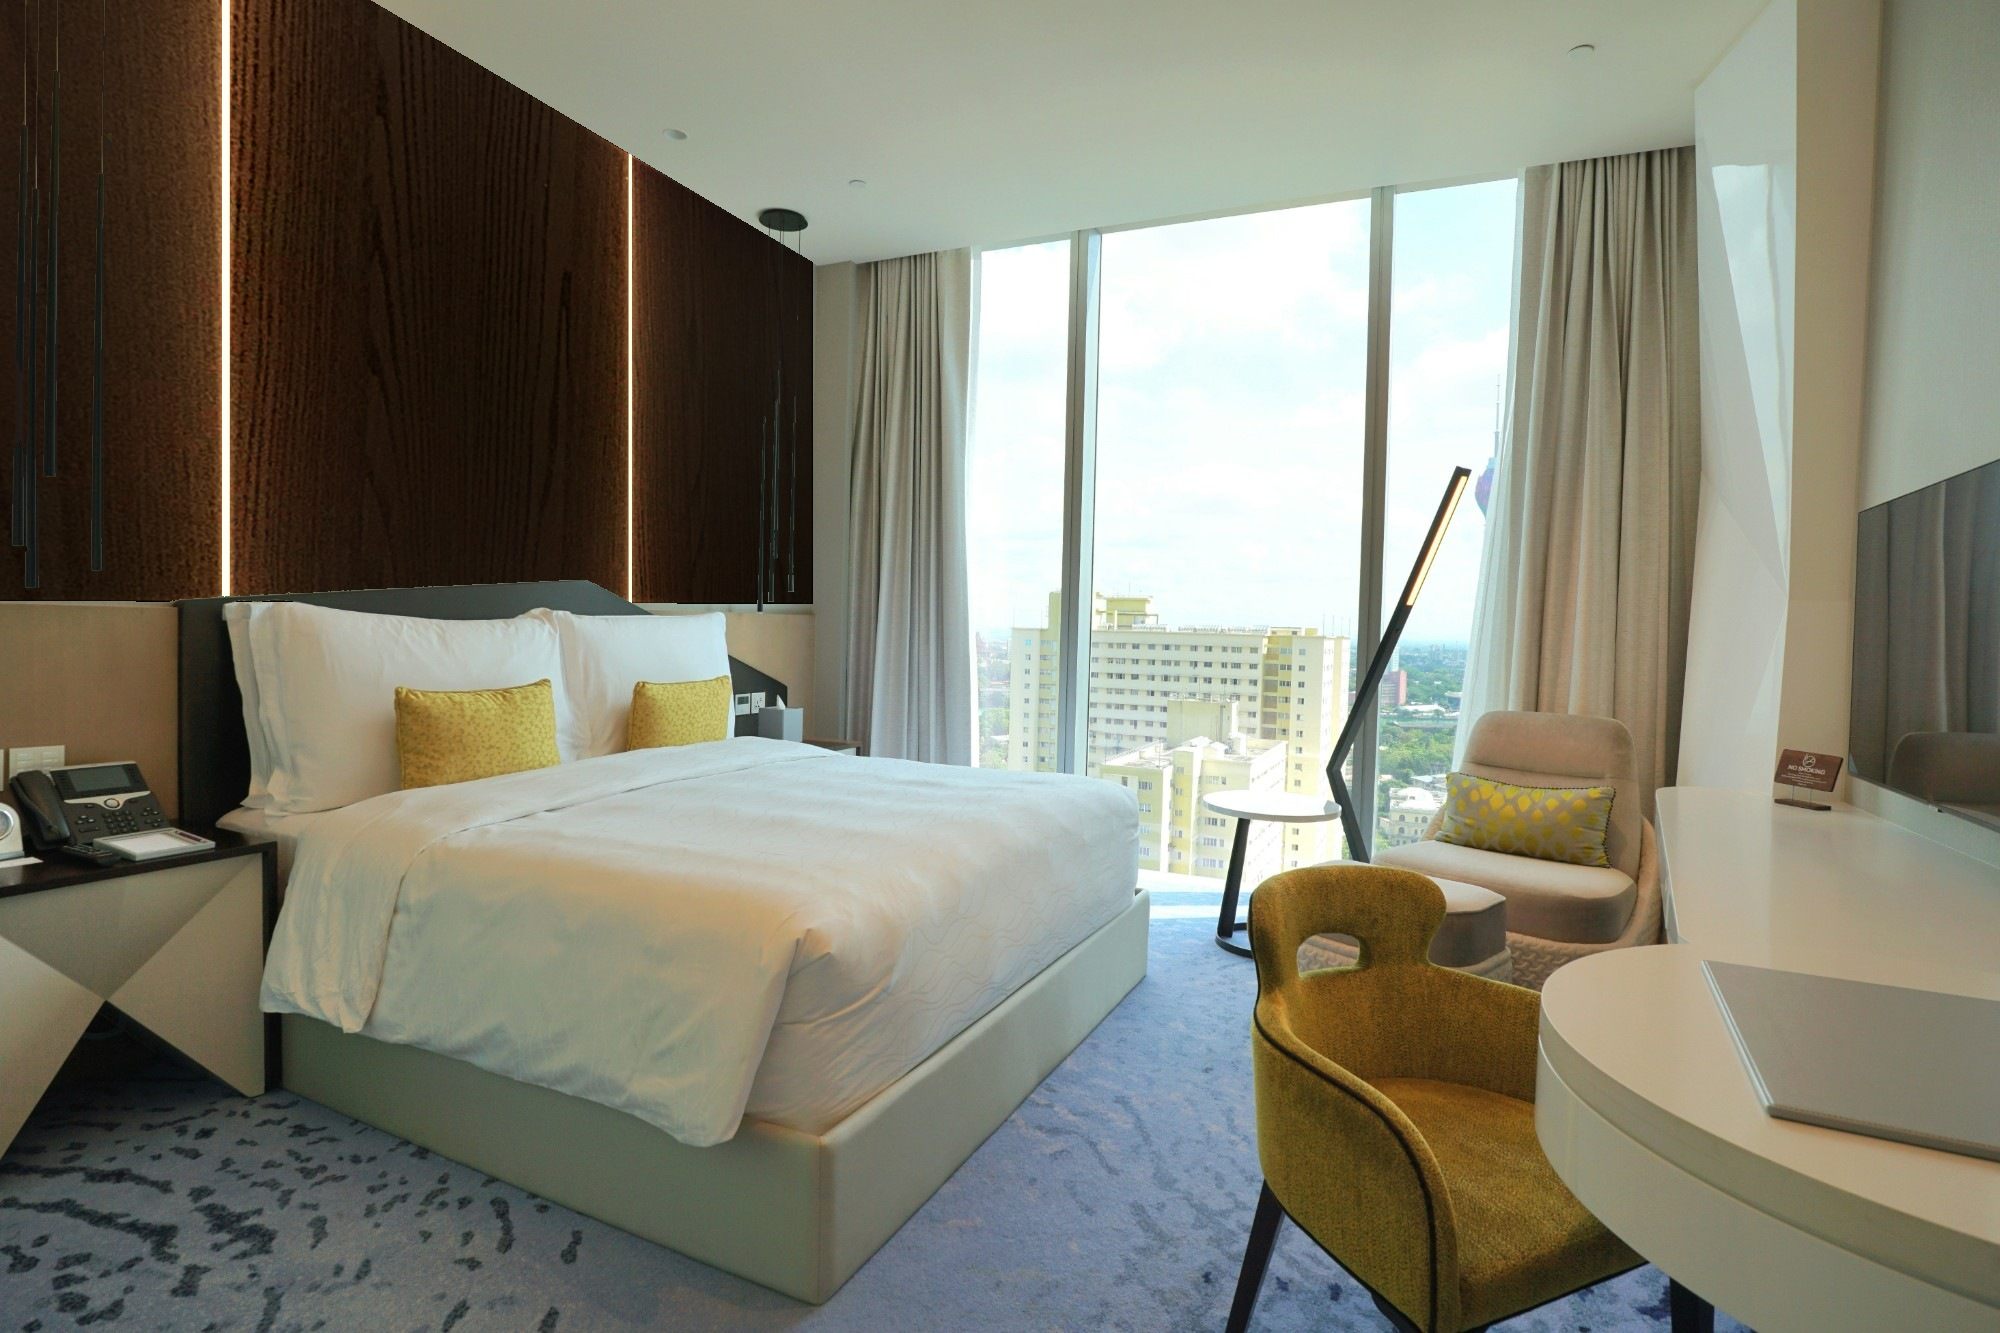
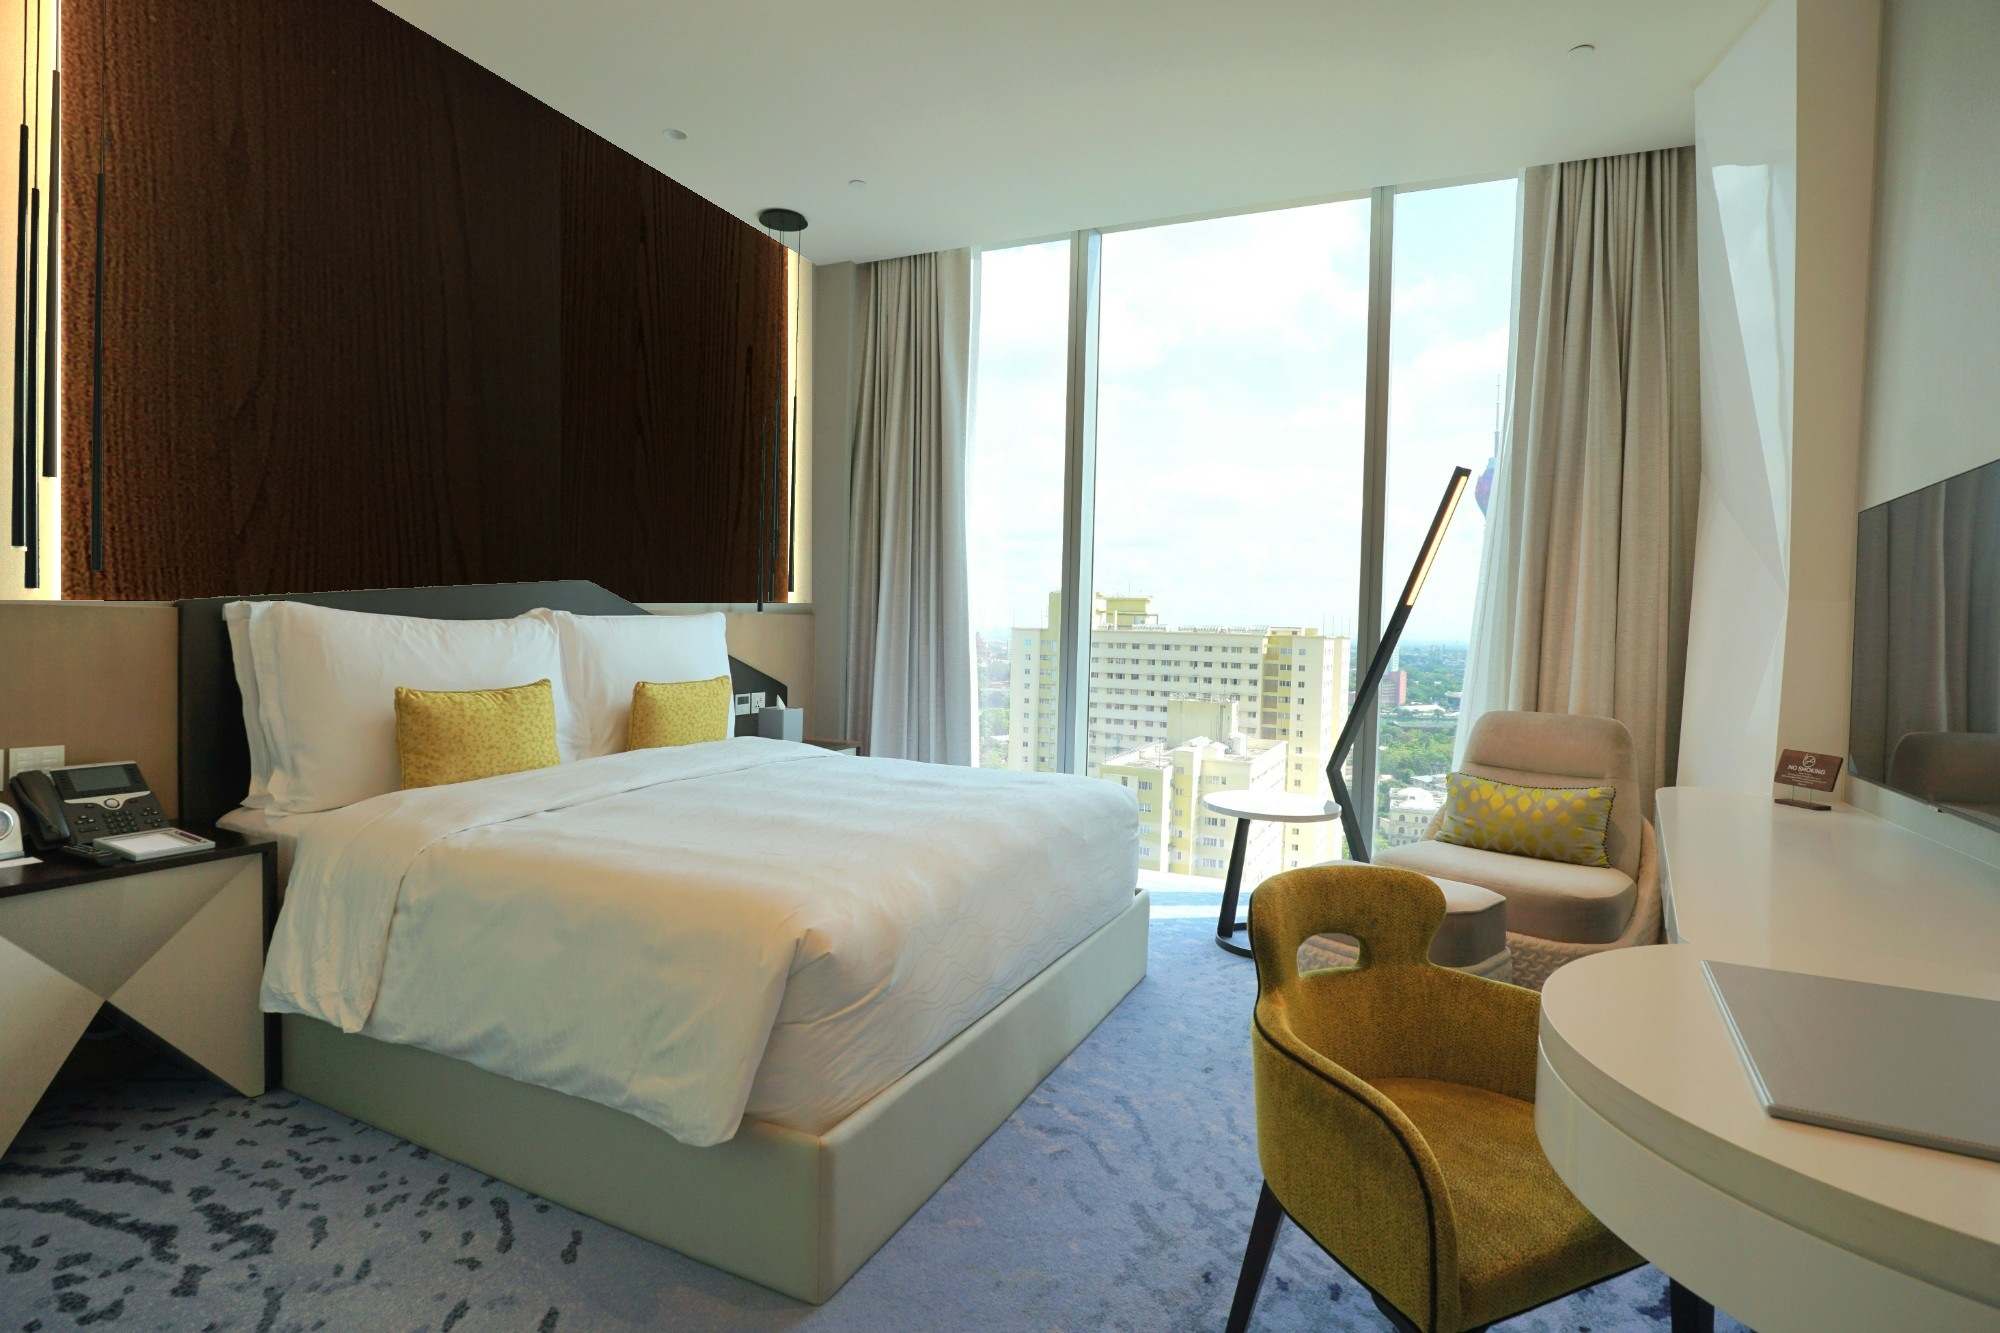
Sectorbeeld hotel: 810 Noir Oak als vlak van 2 panelen achter het hoofdbord, LED aan beide uiteinden
Claude-Session: https://claude.ai/code/session_01Tr9HDAqx5rbsuHBhnEqEEG

Changed region(s): [[0.0, 0.0, 0.155, 0.4614], [0.279, 0.0923, 0.341, 0.4614], [0.372, 0.1538, 0.434, 0.4614]]

diff --git a/docs/ontwerp-puredeco-finish/Sectorbeelden.dc.html b/docs/ontwerp-puredeco-finish/Sectorbeelden.dc.html
@@ -18,7 +18,7 @@ img{display:block;width:100%}
 </style>
 </helmet>
 <div style="width:1440px;height:1860px;position:relative;overflow:hidden;background:#F5F2EC;color:#151413;font-family:'Instrument Sans','Helvetica Neue',Arial,sans-serif">
-<div class="tag" style="left:24px;top:20px">Sectorbeelden · test hotel · aangeleverde foto + Puredeco-decor</div><div style="padding:90px 96px 80px"><div class="s" style="font-size:64px;line-height:1">Hotels: jullie wand in een echte hotelkamer</div><div style="font-size:16px;line-height:1.7;color:#3A3733;margin-top:14px;max-width:1080px">De wand achter het bed is vervangen door het echte oppervlak van het decor, in perspectief en op ware grootte (panelen van 122 cm breed, gemeten aan het bed). Licht, kleur van het daglicht, hanglampen en hoofdbord komen uit de foto zelf. Het kunstwerk aan de wand is weggelaten. De LED zit in de naad aan de zijkant van het middelste paneel en strijkt opzij over het hout. Op de site staat bij dit beeld altijd “Visualisatie”, want het is een bewerkte foto en geen geplaatst project.</div><div style="margin-top:48px"><div><div style="position:relative"><img src="./beeld/sector-hotel-810led.jpg"><span style="position:absolute;right:12px;top:12px;background:rgba(245,242,236,.92);font-size:11px;padding:5px 9px;color:#6E675E">Visualisatie</span></div><div style="display:flex;justify-content:space-between;align-items:baseline;margin-top:12px"><span class="s" style="font-size:30px">810 Noir Oak met LED</span><span style="font-size:12px;color:#6E675E">LED-lijn aan de zijkant van het middelste paneel · strijklicht over het hout</span></div></div></div><div style="display:grid;grid-template-columns:1fr 1fr 1fr;gap:24px;margin-top:48px"><div><div style="position:relative"><img src="./beeld/sector-hotel-678.jpg"><span style="position:absolute;right:12px;top:12px;background:rgba(245,242,236,.92);font-size:11px;padding:5px 9px;color:#6E675E">Visualisatie</span></div><div style="display:flex;justify-content:space-between;align-items:baseline;margin-top:12px"><span class="s" style="font-size:30px">678 marmer</span><span style="font-size:12px;color:#6E675E">eerdere variant</span></div></div><div><div style="position:relative"><img src="./beeld/sector-hotel-811.jpg"><span style="position:absolute;right:12px;top:12px;background:rgba(245,242,236,.92);font-size:11px;padding:5px 9px;color:#6E675E">Visualisatie</span></div><div style="display:flex;justify-content:space-between;align-items:baseline;margin-top:12px"><span class="s" style="font-size:30px">811 hout</span><span style="font-size:12px;color:#6E675E">eerdere variant</span></div></div><div><div style="position:relative"><img src="./beeld/sector-hotel-bron.jpg"></div><div style="display:flex;justify-content:space-between;align-items:baseline;margin-top:12px"><span class="s" style="font-size:30px">Origineel</span><span style="font-size:12px;color:#6E675E">aangeleverde foto</span></div></div></div><div style="margin-top:56px;max-width:1000px;font-size:15px;line-height:1.7;color:#3A3733"><div class="k">Voor dit live gaat</div><div style="margin-top:10px">1. <b>Bron en licentie:</b> stuur de link naar de foto (Unsplash/Pexels of de fotograaf). Zonder bron zetten we hem niet live.</div><div style="margin-top:6px">2. <b>LED:</b> nieuw in het assortiment. Zodra de LED-productpagina er is, linken we vanaf dit beeld naar de LED en noemen we hem in het bijschrift.</div><div style="margin-top:6px">3. De tweede aangeleverde foto heeft een signatuur “k/r” op het hoofdbord. Die gebruiken we niet zonder toestemming van de maker.</div><div style="margin-top:6px">4. Daarna volgen horeca, kantoren en retail op dezelfde manier.</div></div></div>
+<div class="tag" style="left:24px;top:20px">Sectorbeelden · test hotel · aangeleverde foto + Puredeco-decor</div><div style="padding:90px 96px 80px"><div class="s" style="font-size:64px;line-height:1">Hotels: jullie wand in een echte hotelkamer</div><div style="font-size:16px;line-height:1.7;color:#3A3733;margin-top:14px;max-width:1080px">De wand achter het bed is vervangen door het echte oppervlak van het decor, in perspectief en op ware grootte (panelen van 122 cm breed, gemeten aan het bed). Licht, kleur van het daglicht, hanglampen en hoofdbord komen uit de foto zelf. Het kunstwerk aan de wand is weggelaten. Twee panelen (244 cm) staan symmetrisch achter het hoofdbord; aan beide uiteinden zit een LED-lijn die over het hout en de wand ernaast strijkt. Op de site staat bij dit beeld altijd “Visualisatie”, want het is een bewerkte foto en geen geplaatst project.</div><div style="margin-top:48px"><div><div style="position:relative"><img src="./beeld/sector-hotel-810led.jpg"><span style="position:absolute;right:12px;top:12px;background:rgba(245,242,236,.92);font-size:11px;padding:5px 9px;color:#6E675E">Visualisatie</span></div><div style="display:flex;justify-content:space-between;align-items:baseline;margin-top:12px"><span class="s" style="font-size:30px">810 Noir Oak met LED</span><span style="font-size:12px;color:#6E675E">2 panelen achter het hoofdbord · LED aan beide uiteinden</span></div></div></div><div style="display:grid;grid-template-columns:1fr 1fr 1fr;gap:24px;margin-top:48px"><div><div style="position:relative"><img src="./beeld/sector-hotel-678.jpg"><span style="position:absolute;right:12px;top:12px;background:rgba(245,242,236,.92);font-size:11px;padding:5px 9px;color:#6E675E">Visualisatie</span></div><div style="display:flex;justify-content:space-between;align-items:baseline;margin-top:12px"><span class="s" style="font-size:30px">678 marmer</span><span style="font-size:12px;color:#6E675E">eerdere variant</span></div></div><div><div style="position:relative"><img src="./beeld/sector-hotel-811.jpg"><span style="position:absolute;right:12px;top:12px;background:rgba(245,242,236,.92);font-size:11px;padding:5px 9px;color:#6E675E">Visualisatie</span></div><div style="display:flex;justify-content:space-between;align-items:baseline;margin-top:12px"><span class="s" style="font-size:30px">811 hout</span><span style="font-size:12px;color:#6E675E">eerdere variant</span></div></div><div><div style="position:relative"><img src="./beeld/sector-hotel-bron.jpg"></div><div style="display:flex;justify-content:space-between;align-items:baseline;margin-top:12px"><span class="s" style="font-size:30px">Origineel</span><span style="font-size:12px;color:#6E675E">aangeleverde foto</span></div></div></div><div style="margin-top:56px;max-width:1000px;font-size:15px;line-height:1.7;color:#3A3733"><div class="k">Voor dit live gaat</div><div style="margin-top:10px">1. <b>Bron en licentie:</b> stuur de link naar de foto (Unsplash/Pexels of de fotograaf). Zonder bron zetten we hem niet live.</div><div style="margin-top:6px">2. <b>LED:</b> nieuw in het assortiment. Zodra de LED-productpagina er is, linken we vanaf dit beeld naar de LED en noemen we hem in het bijschrift.</div><div style="margin-top:6px">3. De tweede aangeleverde foto heeft een signatuur “k/r” op het hoofdbord. Die gebruiken we niet zonder toestemming van de maker.</div><div style="margin-top:6px">4. Daarna volgen horeca, kantoren en retail op dezelfde manier.</div></div></div>
 </div>
 </x-dc>
 <script type="text/x-dc" data-dc-script data-props='{"$preview":{"width":1440,"height":1860}}'>

diff --git a/tools/sector/hotel.py b/tools/sector/hotel.py
@@ -6,7 +6,8 @@ src=cv2.imread(S+'src.jpg').astype(np.float32)/255
 h,w=src.shape[:2]
 QUAD=np.float32([[0,-220],[812,262],[812,603],[0,600]])   # wand: plafondlijn, hoek, bovenkant houten band
 W_CM,H_CM,PX=270,165,6
-SEAMS=[]                                     # zichtbare wand in cm, 6 px per cm in de textuur
+SEAMS=[]
+SECTION=(8,252)                                            # 2 panelen (244 cm) symmetrisch achter het hoofdbord (28-232 cm)                                     # zichtbare wand in cm, 6 px per cm in de textuur
 
 def bbox(img):
     g=cv2.cvtColor(img,cv2.COLOR_BGR2GRAY); ys,xs=np.where(g<235)
@@ -26,10 +27,8 @@ def canvas(decor):
         pan=cv2.resize(tex,(122*PX,280*PX))
         row=np.concatenate([pan if i%2==0 else cv2.flip(pan,0) for i in range(5)],1).astype(np.float32)
         for i in range(1,5): row[:, i*122*PX-1:i*122*PX+1]*=0.8
-        Hi=cv2.getPerspectiveTransform(QUAD,np.float32([[0,0],[W_CM,0],[W_CM,H_CM],[0,H_CM]]))
-        ax=float(cv2.perspectiveTransform(np.float32([[[470,600]]]),Hi)[0,0,0])
-        start=int((2.5*122-ax)*PX)          # paneel 3 (midden) gecentreerd op het bed
-        SEAMS[:]=[ax-61,ax+61]
+        start=int((122-SECTION[0])*PX)      # paneelrand op het linker uiteinde van de wandsectie
+        SEAMS[:]=list(SECTION)               # LED aan beide uiteinden
         c=row[:Hp, start:start+Wp]
     return c.astype(np.float32)/255
 
@@ -38,9 +37,13 @@ def run(decor,out,led=False):
     Hm=cv2.getPerspectiveTransform(np.float32([[0,0],[c.shape[1],0],[c.shape[1],c.shape[0]],[0,c.shape[0]]]),QUAD)
     warped=cv2.warpPerspective(c,Hm,(w,h),flags=cv2.INTER_AREA)
     poly=np.zeros((h,w),np.uint8); cv2.fillPoly(poly,[QUAD.astype(np.int32)],1)
+    full=poly.copy()
+    if decor!='678':
+        sec=np.zeros(c.shape[:2],np.float32); sec[:,int(SECTION[0]*PX):int(SECTION[1]*PX)]=1
+        poly=(cv2.warpPerspective(sec,Hm,(w,h),flags=cv2.INTER_LINEAR)>0.5).astype(np.uint8)
     # belichting van de oorspronkelijke wand: lichtsterkte en lichtkleur uit de geverfde wand (albedo ~0,82)
     lum=cv2.cvtColor((src*255).astype(np.uint8),cv2.COLOR_BGR2GRAY).astype(np.float32)/255
-    wallpx=((lum>0.55)&(poly>0)).astype(np.float32)
+    wallpx=((lum>0.55)&(full>0)).astype(np.float32)
     k=(0,0); sig=40
     den=cv2.GaussianBlur(wallpx,k,sig)+1e-4
     light=np.dstack([cv2.GaussianBlur(src[...,i]*wallpx,k,sig)/den for i in range(3)])
@@ -56,7 +59,7 @@ def run(decor,out,led=False):
         L=np.zeros((1,Wp),np.float32); line=np.zeros((1,Wp),np.float32)
         for us in SEAMS:
             d=np.abs(u-us)
-            L+=1.6*np.exp(-d/9)+0.45*np.exp(-d/35)
+            L+=2.1*np.exp(-d/10)+0.6*np.exp(-d/40)
             line+=(d<0.8).astype(np.float32)
         L=np.broadcast_to(L,(Hp,Wp)).astype(np.float32); line=np.broadcast_to(line,(Hp,Wp)).astype(np.float32)
         Lw_=cv2.warpPerspective(L,Hm,(w,h),flags=cv2.INTER_LINEAR)
@@ -84,6 +87,12 @@ def run(decor,out,led=False):
     fg=np.where(a[...,None]>0.8,src,np.float32([0.12,0.12,0.13]))
     new=src*(1-poly[...,None])+comp*poly[...,None]
     res=new*(1-a[...,None]*poly[...,None])+fg*(a[...,None]*poly[...,None])
+    if led:
+        # LED-licht valt ook op de geverfde wand naast de panelen; de LED-lijn zelf ligt op de rand van de sectie
+        outw=(full*(1-poly)).astype(np.float32)[...,None]*(1-a[...,None])
+        res=res+outw*src*Lw_[...,None]*warm*0.55
+        lit=np.clip(Ln*1.4,0,1)[...,None]*(full[...,None])*(1-a[...,None])
+        res=np.maximum(res,lit*np.float32([0.82,0.94,1.0]))+glow[...,None]*warm*0.25*full[...,None]
     # contactschaduw onder plafond en bij de hoek
     cv2.imwrite(out,(np.clip(res,0,1)*255).astype(np.uint8),[cv2.IMWRITE_JPEG_QUALITY,93])
 

diff --git a/tools/banners/board_sector.py b/tools/banners/board_sector.py
@@ -18,8 +18,8 @@ body = ('<div class="tag" style="left:24px;top:20px">Sectorbeelden · test hotel
         '<div class="s" style="font-size:64px;line-height:1">Hotels: jullie wand in een echte hotelkamer</div>'
         '<div style="font-size:16px;line-height:1.7;color:#3A3733;margin-top:14px;max-width:1080px">De wand achter het bed is vervangen door het echte oppervlak van het decor, '
         'in perspectief en op ware grootte (panelen van 122 cm breed, gemeten aan het bed). Licht, kleur van het daglicht, hanglampen en hoofdbord komen uit de foto zelf. '
-        'Het kunstwerk aan de wand is weggelaten. De LED zit in de naad aan de zijkant van het middelste paneel en strijkt opzij over het hout. Op de site staat bij dit beeld altijd “Visualisatie”, want het is een bewerkte foto en geen geplaatst project.</div>'
-        '<div style="margin-top:48px">' + card('hotel-810led', '810 Noir Oak met LED', 'LED-lijn aan de zijkant van het middelste paneel · strijklicht over het hout', 'Visualisatie') + '</div>'
+        'Het kunstwerk aan de wand is weggelaten. Twee panelen (244 cm) staan symmetrisch achter het hoofdbord; aan beide uiteinden zit een LED-lijn die over het hout en de wand ernaast strijkt. Op de site staat bij dit beeld altijd “Visualisatie”, want het is een bewerkte foto en geen geplaatst project.</div>'
+        '<div style="margin-top:48px">' + card('hotel-810led', '810 Noir Oak met LED', '2 panelen achter het hoofdbord · LED aan beide uiteinden', 'Visualisatie') + '</div>'
         '<div style="display:grid;grid-template-columns:1fr 1fr 1fr;gap:24px;margin-top:48px">' +
         card('hotel-678', '678 marmer', 'eerdere variant', 'Visualisatie') +
         card('hotel-811', '811 hout', 'eerdere variant', 'Visualisatie') +
